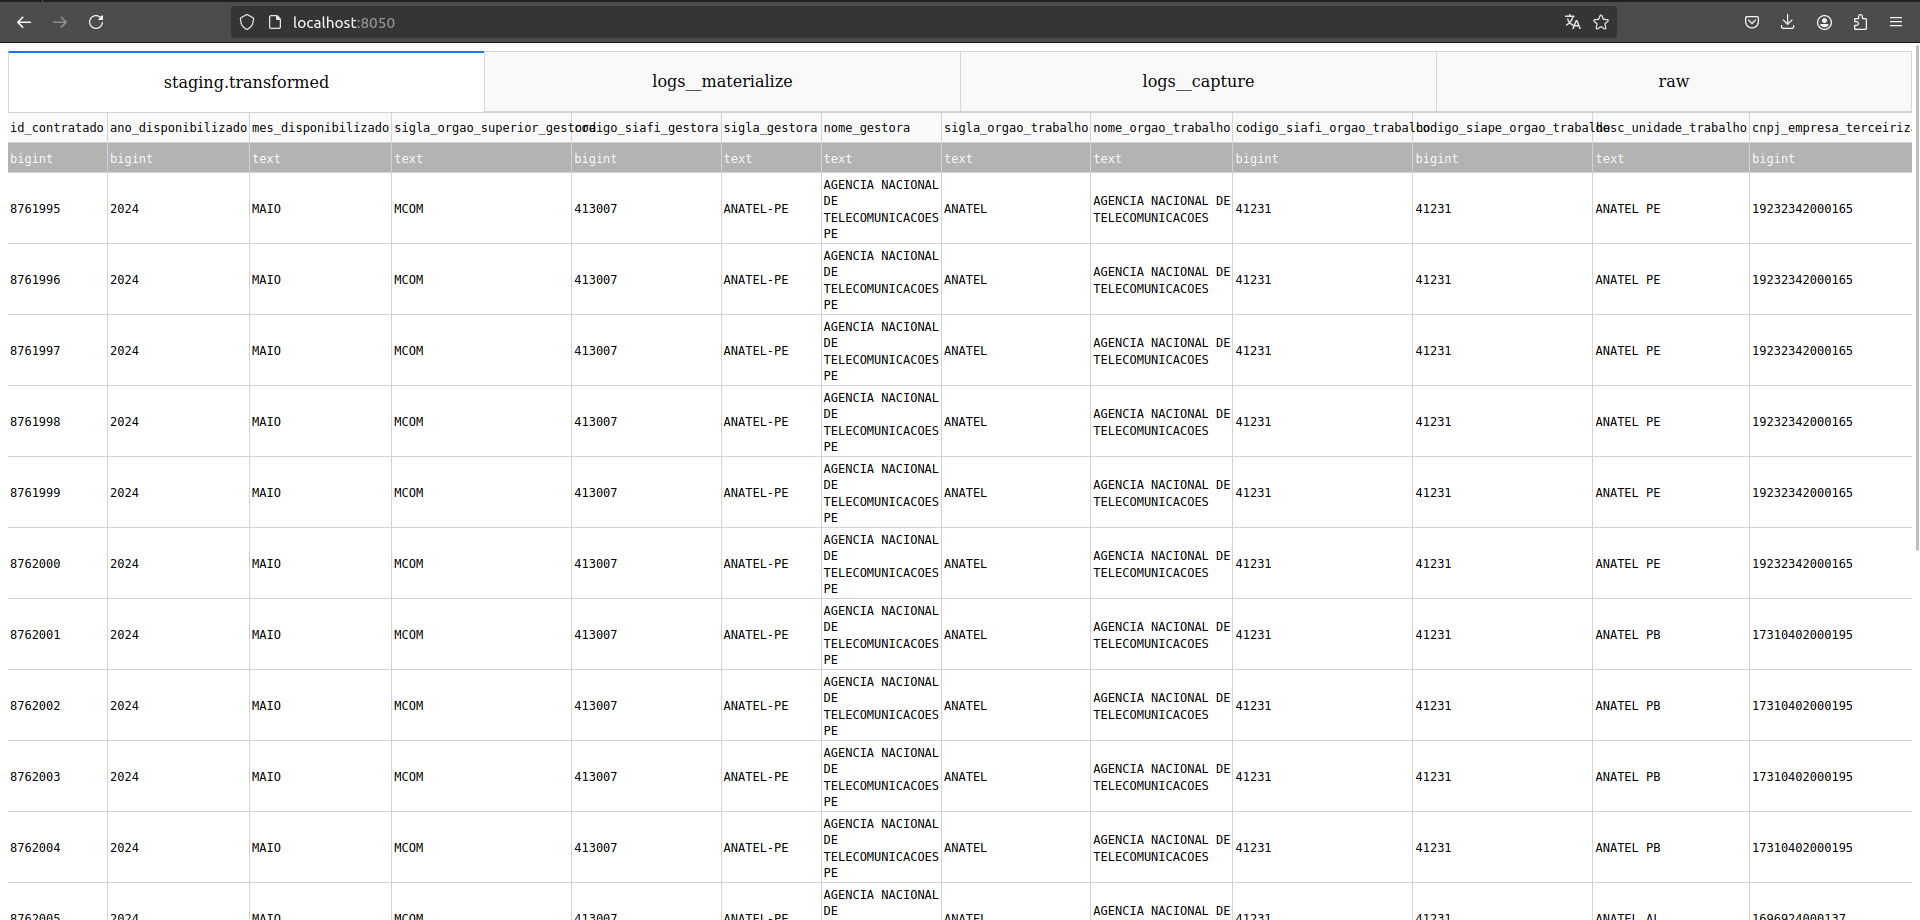
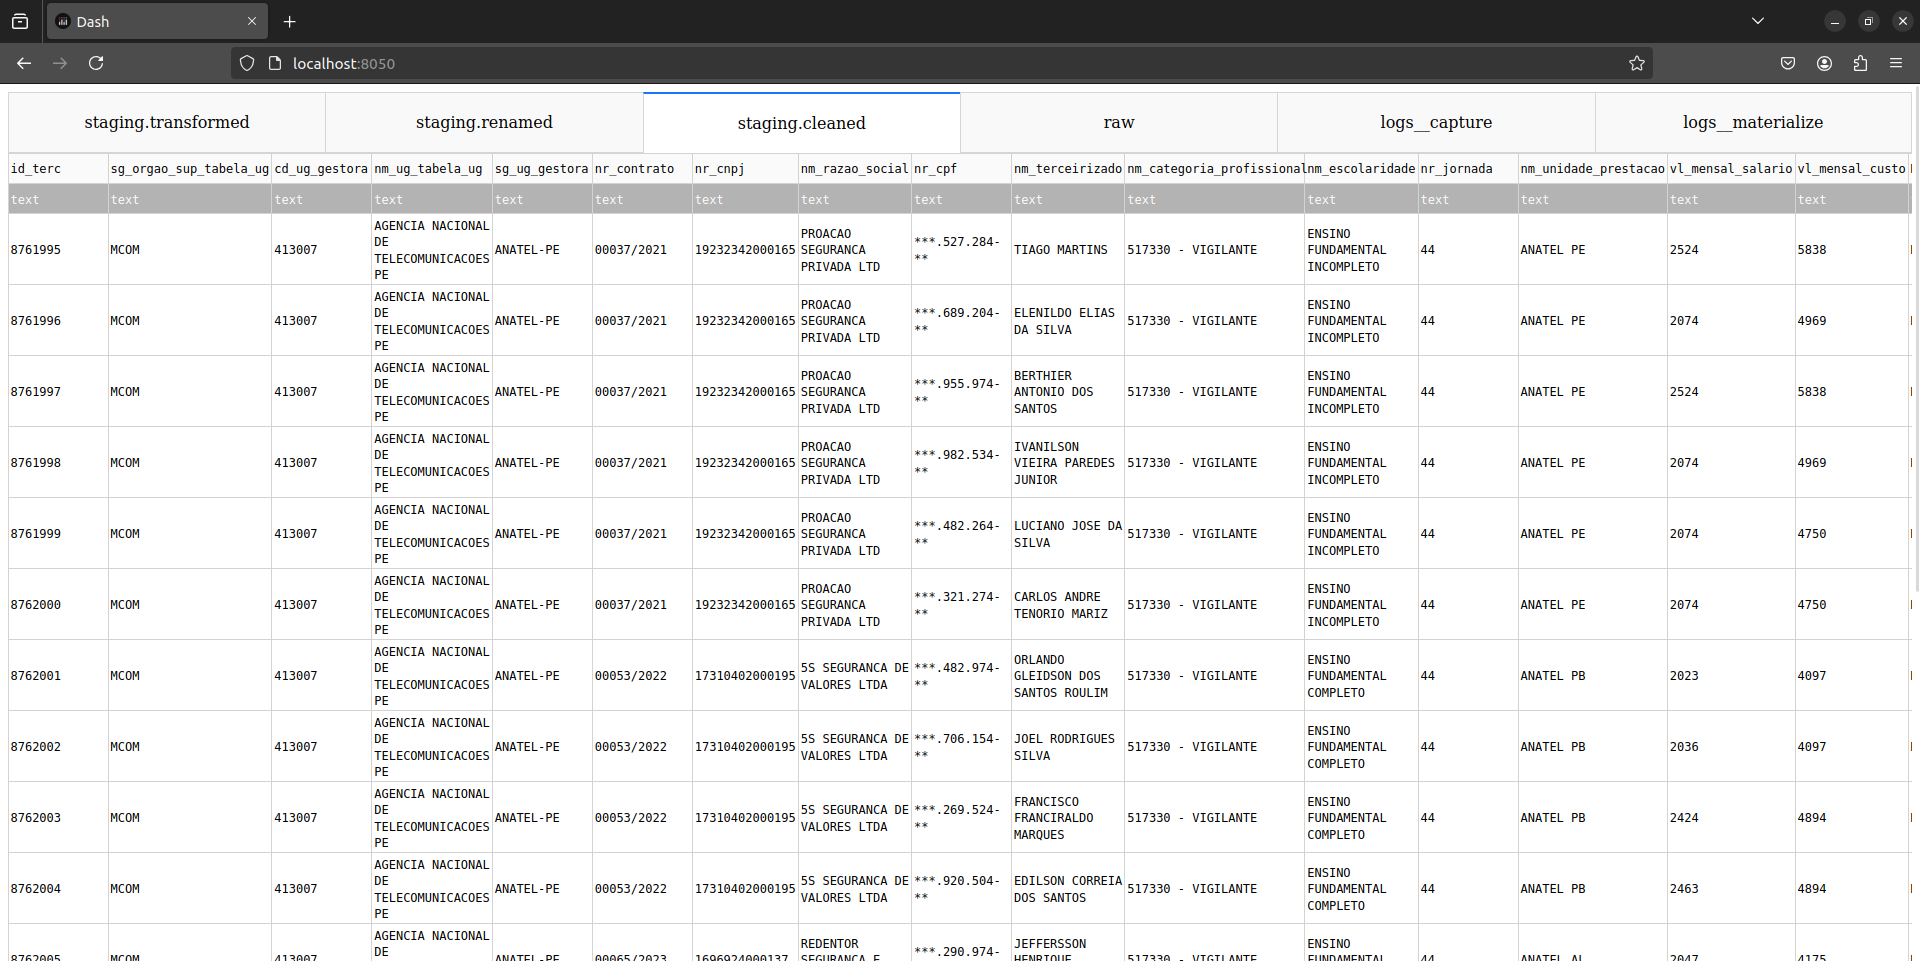
Added DBT layer renamed.sql, one job per layer + show all tables in run/view_results.py

diff --git a/run/view_results.py b/run/view_results.py
@@ -9,9 +9,12 @@ load_dotenv()
 # Define as configurações de tabelas da visualização
 table_configs = [
     {"schema": "staging", "table": "transformed", "label": "staging.transformed"},
-    {"schema": "public", "table": "logs__materialize", "label": "logs__materialize"},
+    {"schema": "staging", "table": "renamed", "label": "staging.renamed"},
+    {"schema": "staging", "table": "cleaned", "label": "staging.cleaned"},
+
+    {"schema": "public", "table": "raw", "label": "raw"},
     {"schema": "public", "table": "logs__capture", "label": "logs__capture"},
-    {"schema": "public", "table": "raw", "label": "raw"}
+    {"schema": "public", "table": "logs__materialize", "label": "logs__materialize"},
 ]
 limit = 300
 
